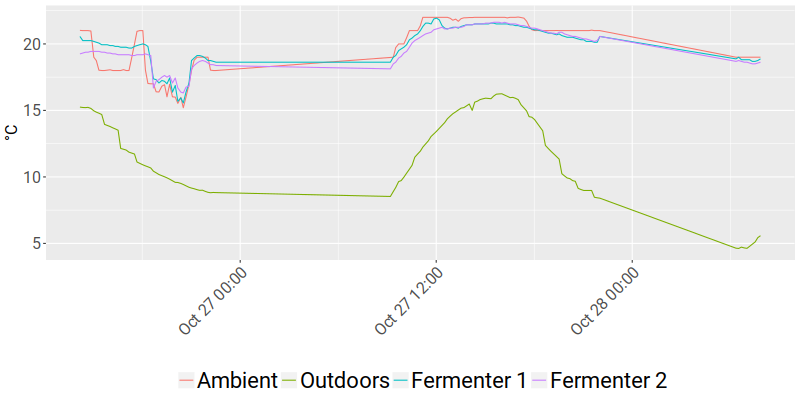
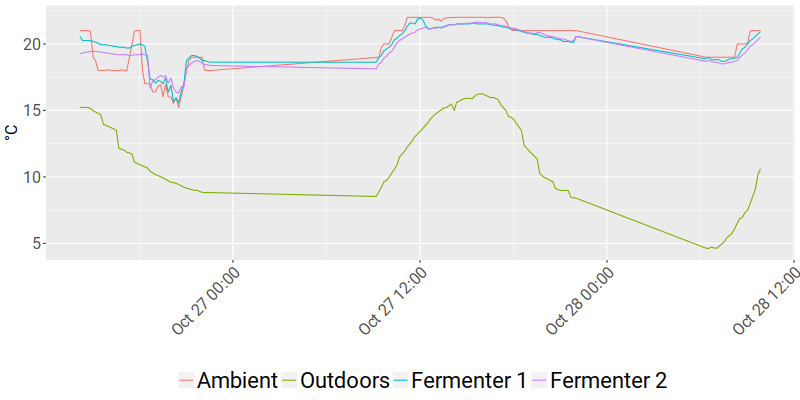
Update live temperature on site

diff --git a/temperature.js b/temperature.js
@@ -1,1 +1,1 @@
-document.write("<h4>Inside Temperature: 19.0°C</h4><h4>Outside Temperature: 5.58°C</h4><h4>Fermenter 1 Temperature: 18.88°C</h4><h4>Fermenter 2 Temperature: 18.63°C</h4><h4>Inside Humidity: 51.2%</h4><h4>Outside Humidity: 91.0%</h4><br>Last update: 2017-10-28 07:51:07");
+document.write("<h4>Inside Temperature: 21.0°C</h4><h4>Outside Temperature: 10.61°C</h4><h4>Fermenter 1 Temperature: 20.94°C</h4><h4>Fermenter 2 Temperature: 20.5°C</h4><h4>Inside Humidity: 48.61%</h4><h4>Outside Humidity: 85.0%</h4><br>Last update: 2017-10-28 09:50:53");
